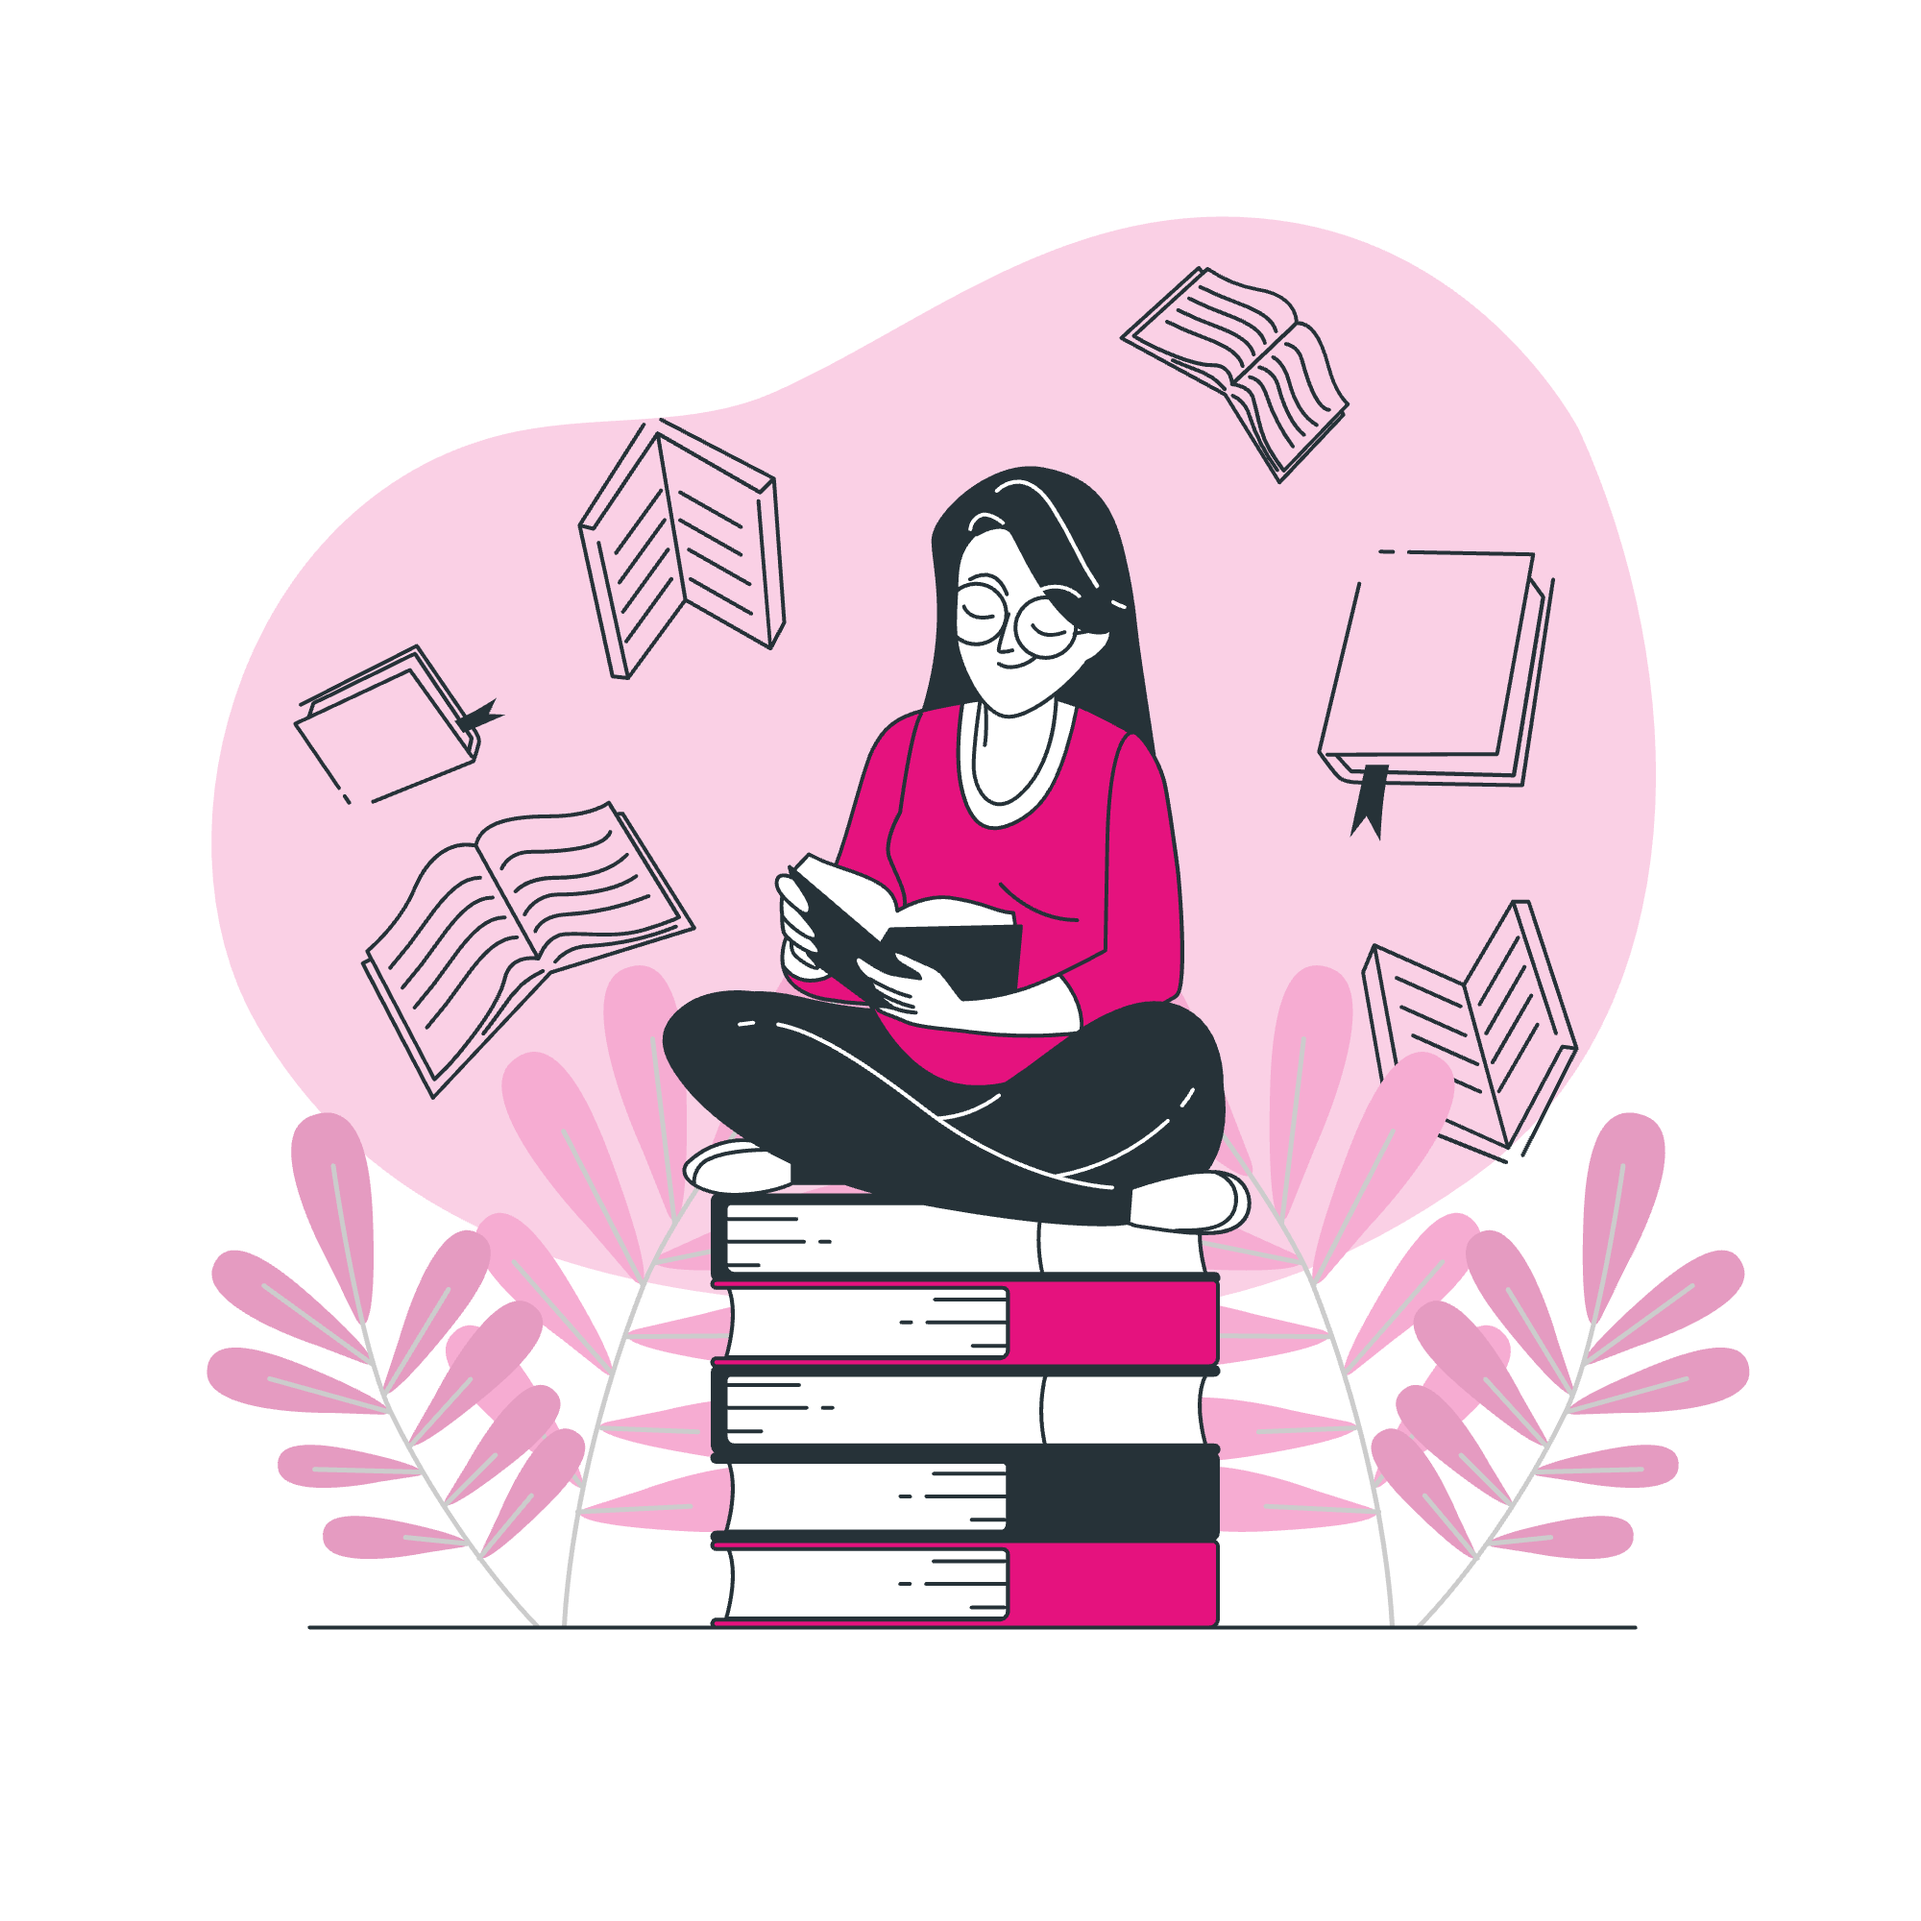
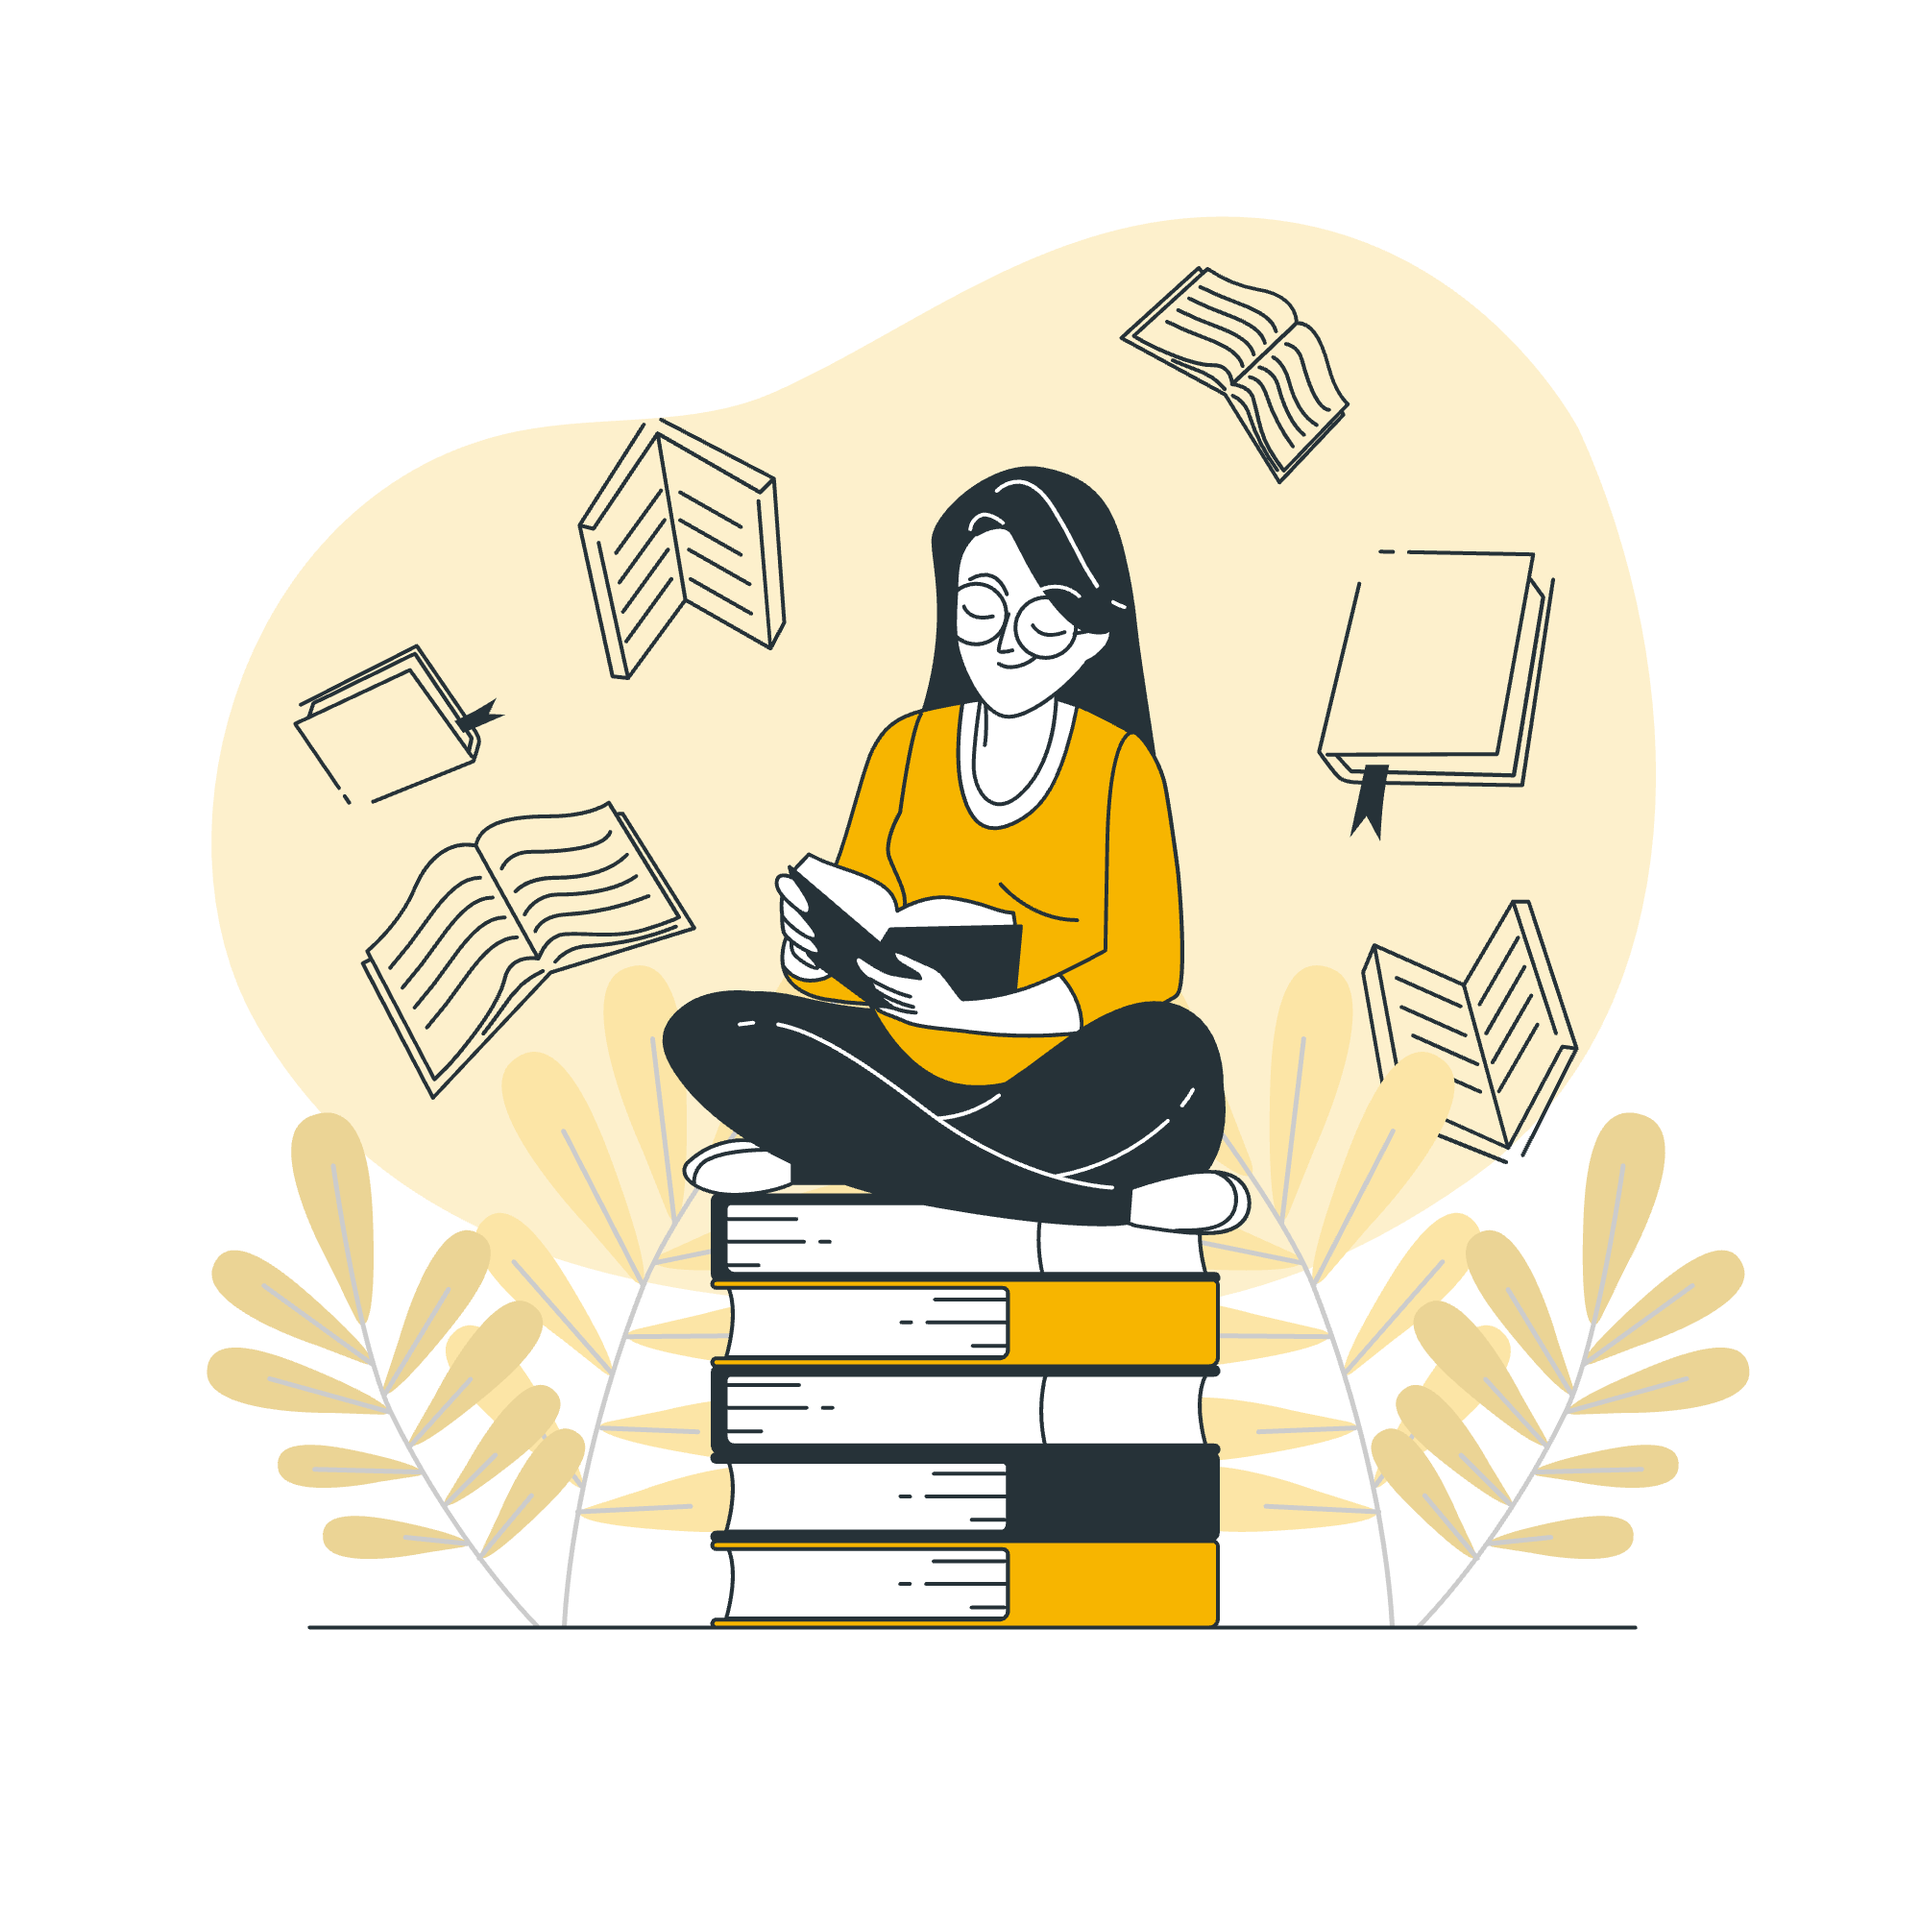
add: change doc illustration color

diff --git a/content/_index.md b/content/_index.md
@@ -47,7 +47,7 @@ width: wide
     class="hx:aspect-auto hx:md:aspect-[1.1/1] hx:max-md:min-h-[340px]"
     image="img/cdc-illustration-doc.png"
     imageClass="hx:top-[20%] hx:left-[24px] hx:w-[90%] hx:sm:w-[110%] hx:dark:opacity-80"
-    style="background: radial-gradient(ellipse at 50% 80%,rgba(254, 97, 217, 0.15),hsla(0,0%,100%,0));"
+    style="background: radial-gradient(ellipse at 50% 80%,rgba(254, 230, 97, 0.15),hsla(0,0%,100%,0));"
   >}}
   {{< hextra/feature-card
     title="Guides"
